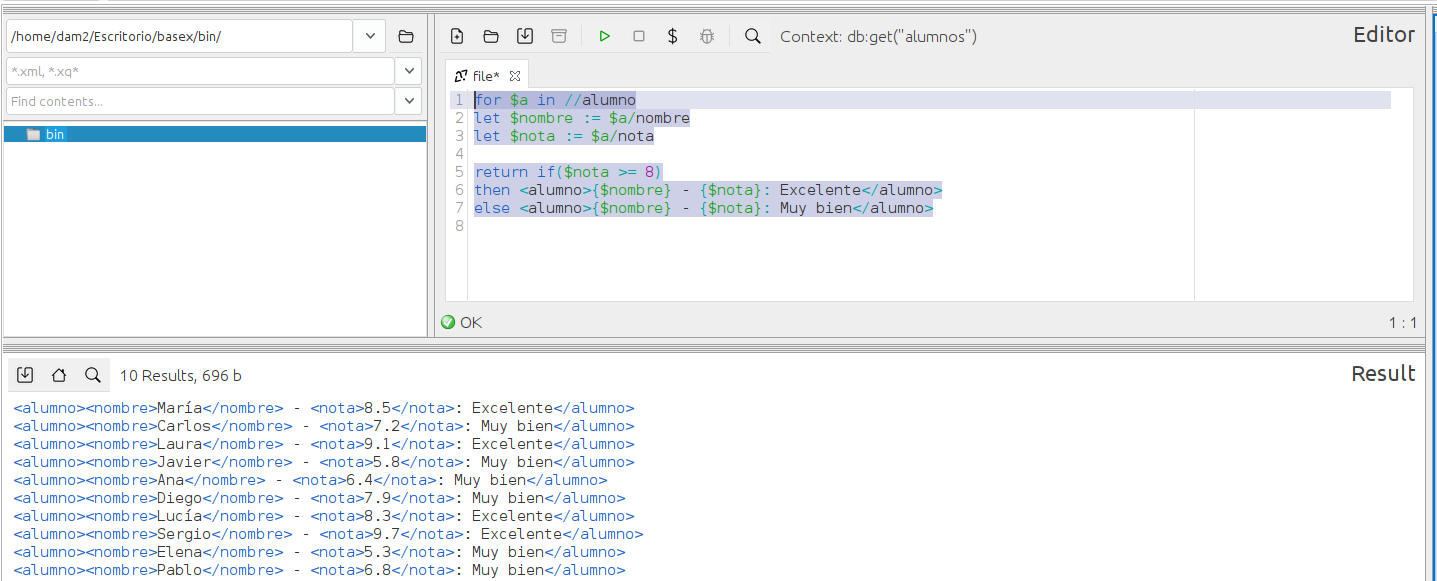
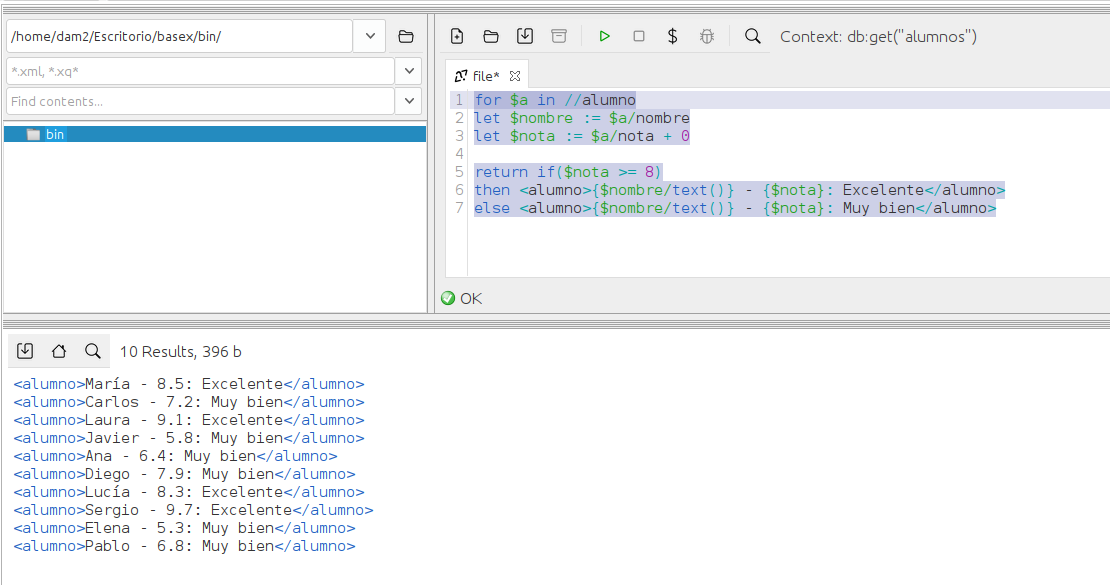
7 cambiado

Changed region(s): [[0.0, 0.0, 1.0, 1.0], [0.0, 0.031, 0.9189, 0.4028]]

diff --git a/7.md b/7.md
@@ -6,10 +6,10 @@
 ```
 for $a in //alumno
 let $nombre := $a/nombre
-let $nota := $a/nota
+let $nota := $a/nota + 0
 
 return if($nota >= 8)
-then <alumno>{$nombre} - {$nota}: Excelente</alumno>
-else <alumno>{$nombre} - {$nota}: Muy bien</alumno>
+then <alumno>{$nombre/text()} - {$nota}: Excelente</alumno>
+else <alumno>{$nombre/text()} - {$nota}: Muy bien</alumno>
 ```
 ![alt text](capturas/7.png)
